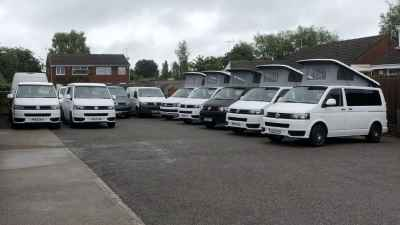
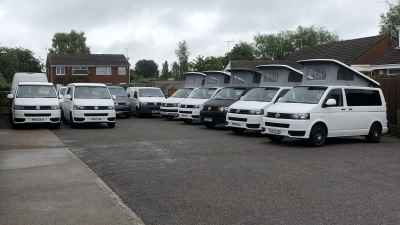
fix performance on chrome dev tools by resizing images and changing file type back to jpg

diff --git a/README.md b/README.md
@@ -21,8 +21,7 @@ Developer : Jamie Phelps
     1. [Design Choices](#design-choices)
     2. [Colour](#colour)
     3. [Fonts](#fonts)
-    4. [Structure](#structure)
-    5. [Wireframes](#wireframes)
+    4. [Wireframes](#wireframes)
 5. [Technologies Used](#technologies-used)
     1. [Languages](#languages)
     2. [Frameworks & Tools](#frameworks-&-tools)
@@ -366,67 +365,41 @@ I put my website through the following validation tools:
 </details>
 
 ### Mock up
-![Mock Up Image](./assets/images/am-i-responsive.png)
+<details>
+<summary>Am I Responsive</summary>
+<br>
+<img src="./assets/images/am-i-responsive.png" alt="Wave Accessibility 404 Error">
+</details>
 
 ### Performance
 <details>
-<summary>Home Mobile</summary>
+<summary>Home</summary>
 <br>
 <img src="./assets/readme-images/lighthouse-home-mobile.png" alt="lighthouse-home-mobile">
 </details>
 
 <details>
-<summary>Home Desktop</summary>
-<br>
-<img src="./assets/readme-images/lighthouse-home-desktop.png" alt="lighthouse-home-desktop">
-</details>
-
-<details>
-<summary>About Mobile</summary>
+<summary>About</summary>
 <br>
 <img src="./assets/readme-images/lighthouse-about-mobile.png" alt="lighthouse-about-mobile">
 </details>
 
 <details>
-<summary>About Desktop</summary>
-<br>
-<img src="./assets/readme-images/lighthouse-about-desktop.png" alt="lighthouse-about-desktop">
-</details>    
-
-<details>
-<summary>Conversion Mobile</summary>
+<summary>Conversion</summary>
 <br>
 <img src="./assets/readme-images/lighthouse-conversion-mobile.png" alt="lighthouse-conversion-mobile">
 </details>
 
 <details>
-<summary>Conversion Desktop</summary>
-<br>
-<img src="./assets/readme-images/lighthouse-conversion-mobile.png" alt="lighthouse-conversion-desktop">
-</details>
-
-<details>
-<summary>Contact Mobile</summary>
+<summary>Contact</summary>
 <br>
 <img src="./assets/readme-images/lighthouse-contact-mobile.png" alt="lighthouse-contact-mobile">
 </details>
 
 <details>
-<summary>Contact Desktop</summary>
-<br>
-<img src="./assets/readme-images/lighthouse-contact-desktop.png" alt="lighthouse-contact-desktop">
-</details>
-
-<details>
-<summary>Gallery Mobile</summary>
+<summary>Gallery</summary>
 <br>
 <img src="./assets/readme-images/lighthouse-gallery-mobile.png" alt="lighthouse-gallery-mobile">
-</details>
-
-<details>
-<summary>Gallery Desktop</summary>
-<br>
-<img src="./assets/readme-images/lighthouse-gallery-desktop.png" alt="lighthouse-conversion-desktop">
 </details>
 
 ### Device testing
